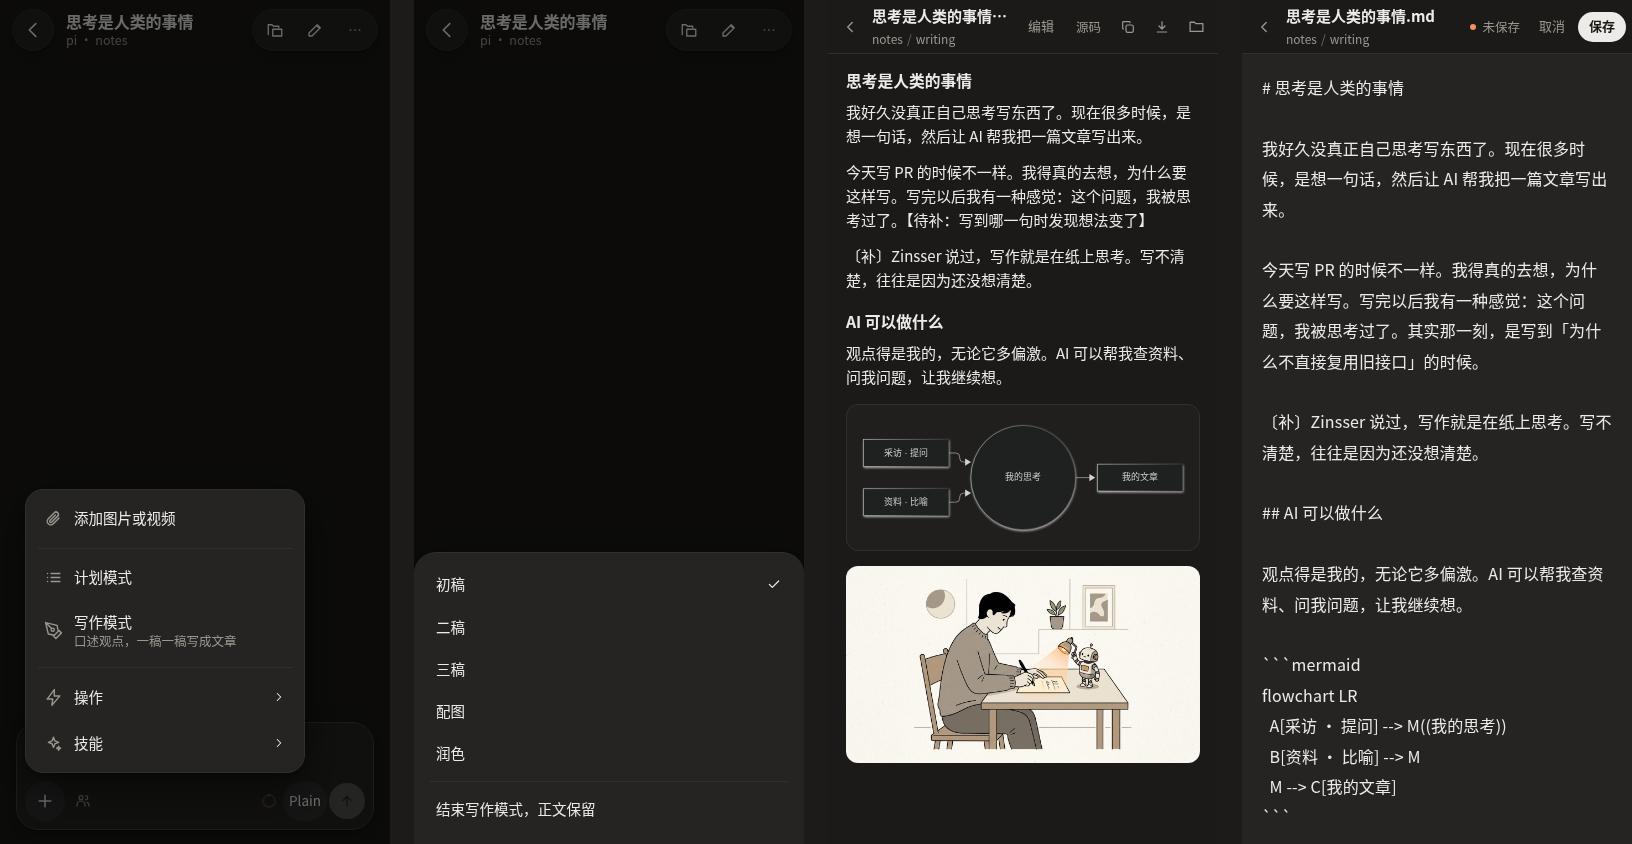
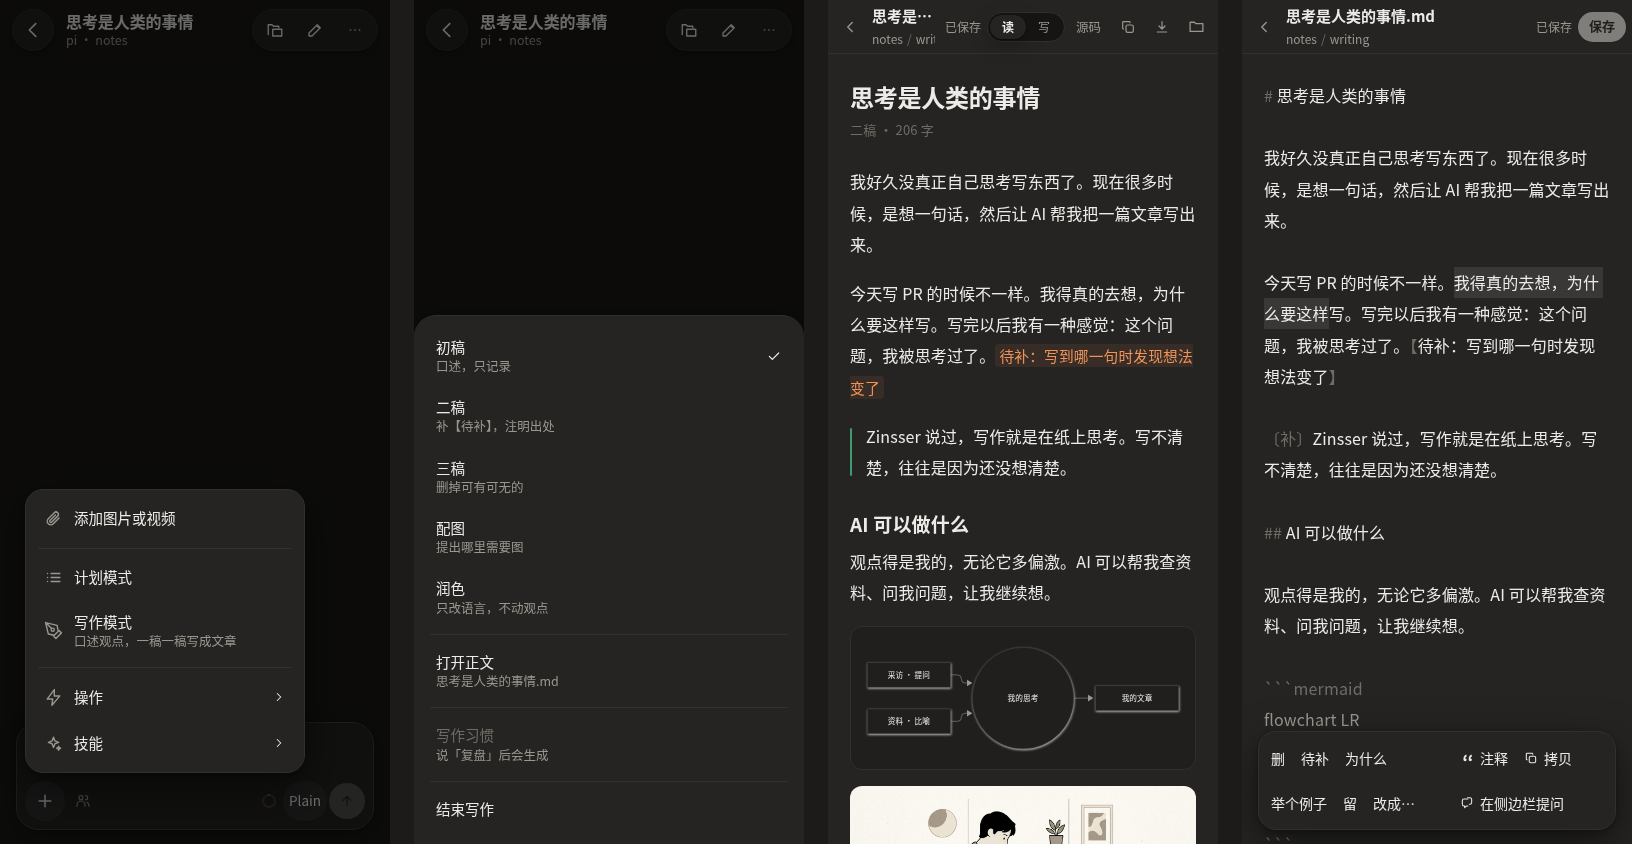
docs: writing mode v2 screenshots and README

diff --git a/docs/TODO.md b/docs/TODO.md
@@ -437,5 +437,7 @@
 人口述观点，agent 采访、记录、补充，一稿一稿写成文章；正文是 `writing/` 下的 Markdown，人可以当纯文本直接改。设计见 [写作流程设计](writing-design.md)，草图 [design/writing-mode.html](design/writing-mode.html)。
 
 - [~] **P2** 第一版：加号菜单「写作模式」一点就开；初稿、二稿、三稿、配图、润色五个阶段，每个阶段的做法由 hub 附在消息后（`<limi-writing>`，斜杠命令不附）；每轮结束找出 `writing/` 下最新的 `.md` 作为正文。文件面板里 `writing/` 下的 `.md` 可以编辑，保存带 `baseHash`，被 agent 改过就 409 不覆盖，下一轮告诉 agent 先重读；Markdown 预览画 Mermaid、显示相对路径图片。*daemon 已做：`daemon/src/writing.ts`、`PUT/DELETE /api/threads/:id/writing`、`PUT …/writing/text`、`text` 返回 `hash`/`editable`；`test/writing.test.ts` 覆盖各阶段说明、斜杠命令、正文跟随、保存撞车、提醒一次、越权路径（含符号链接）与超限。web：加号菜单与桌面命令面板入口、`WritingBar` 阶段条（手机收成阶段名加 Popover）、文件面板纸面编辑（本机草稿、离开确认、409 提示条：载入新版本 / 仍然覆盖）、Mermaid 预览与放大、相对路径图片；`web/test/writing.test.ts`，E2E `writing.spec.mjs` 桌面与手机通过。无头 Chromium 桌面 1400×900、手机 390×844 亮暗都看过，真机未看；agent 改正文时打开着的面板不会自己刷新，保存时才发现*
-- [ ] **P2** 文件面板里选中正文加注释，写作模式下多一排快捷标签（删、待补、为什么、举个例子、留、改成…）
+- [x] **P2** 文件面板里选中正文加注释（带「文件：」行），写作正文里多一排快捷标签（删、待补、为什么、举个例子、留、改成…），手机全屏面板底部计数并回到对话发送。*E2E `writing.spec.mjs` 桌面与手机覆盖*
+- [x] **P2** v2 排版：宽面板、文章排版、【待补】〔补〕上色、Mermaid 跟主题、读写同一张纸（透明 textarea 叠高亮层，Markdown 标记调淡）、阶段收成一个胶囊；对话栏保底 440px 不被挤窄。*无头 Chromium 1280/1440/1920 桌面、390 手机亮暗看过，真机未看*
+- [x] **P2** 写作习惯：`~/.limi/notes/writing.md`，每阶段先读；说「复盘」提炼习惯标〔新〕等确认；任何线程可打开编辑，胶囊菜单有入口
 - [ ] **P3** 每一稿留快照，方便对比
